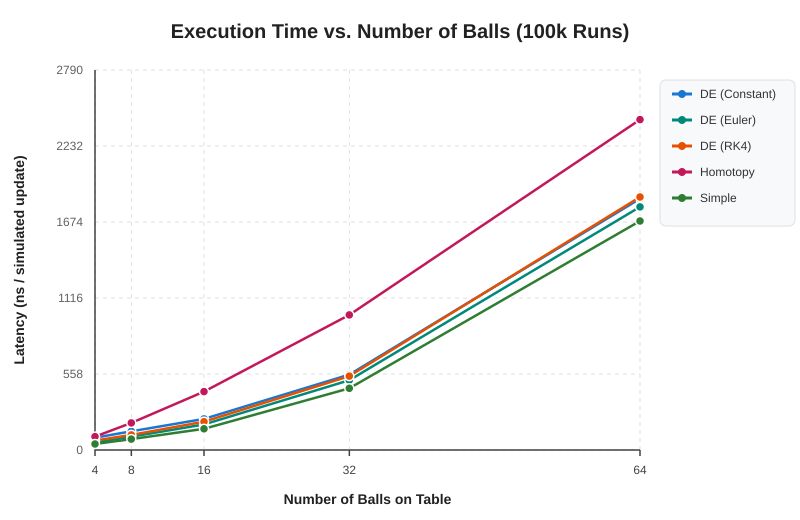
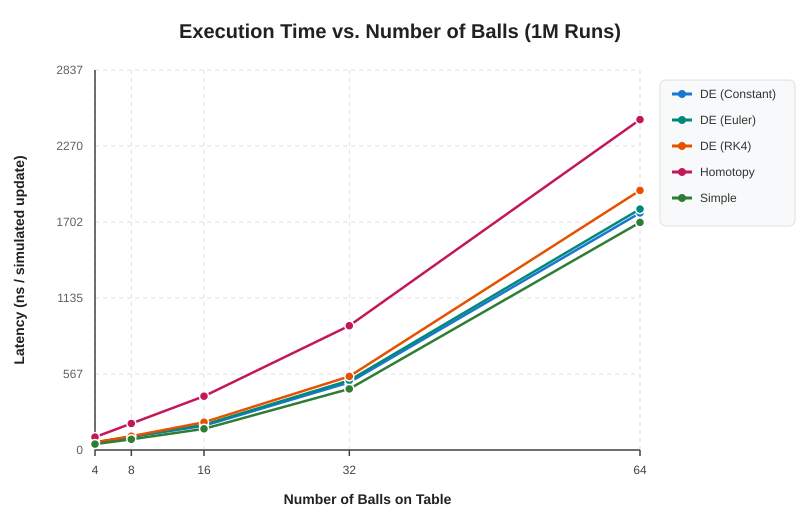
change: bench from 100k to 1mi

diff --git a/README.md b/README.md
@@ -86,15 +86,15 @@ SIMULATED UPDATE LATENCY (aim + ball physics; rendering excluded):
 -----------------------------------------------------------------
 | Solution         | Update (ns) | Relative latency |
 |:-----------------|------------:|-----------------:|
-| Simple           |       126.3 |             1.00x |
-| DE (Constant)    |       156.8 |             1.24x |
-| DE (Euler)       |       159.4 |             1.26x |
-| DE (RK4)         |       160.2 |             1.27x |
-| Homotopy         |       352.5 |             2.79x |
+| Simple           |       159.1 |             1.00x |
+| DE (Constant)    |       180.9 |             1.14x |
+| DE (Euler)       |       188.9 |             1.19x |
+| DE (RK4)         |       208.2 |             1.31x |
+| Homotopy         |       401.8 |             2.52x |
 -----------------------------------------------------------------
 ```
 
-These figures vary by machine and runtime (measured over `REPETITIONS = 100,000` simulated updates per configuration); the plots below show the full scaling and scenario measurements.
+These figures vary by machine and runtime (measured over `REPETITIONS = 1,000,000` simulated updates per configuration); the plots below show the full scaling and scenario measurements.
 
 ![Update latency as the number of balls increases](experiments/results_ball_scaling.svg)
 
@@ -128,14 +128,14 @@ Simple is expected to do well here: it evaluates inexpensive closed-form line-ci
 
 ### Why Each Method Is Faster or Slower: Algorithmic & Hardware Breakdown
 
-The observed latency ranking—**`Simple` (`~130 ns`) < `DE (Constant)` (`~142 ns`) < `DE (Euler)` (`~146 ns`) < `DE (RK4)` (`~161 ns`) $\ll$ `Homotopy` (`~339 ns`)**—is a direct consequence of the trade-off between **per-step arithmetic cost** (Jacobian linear solves vs. hardware `sqrt`) and **fast-path / continuation convergence rates**:
+The observed latency ranking—**`Simple` (`~159 ns`) < `DE (Constant)` (`~181 ns`) < `DE (Euler)` (`~189 ns`) < `DE (RK4)` (`~208 ns`) $\ll$ `Homotopy` (`~402 ns`)**—is a direct consequence of the trade-off between **per-step arithmetic cost** (Jacobian linear solves vs. hardware `sqrt`) and **fast-path / continuation convergence rates**:
 
 | Method | Fast-Path Predictor Cost | Fast-Path Corrector Cost | $2\times 2$ Linear Solves / Fast-Path | Fast-Path Hit Rate (`Moving LOS`) | Central Loop Continuation Calls | Why It Ranks Here |
 | :--- | :--- | :--- | :---: | :---: | :---: | :--- |
 | **`Simple`** | None (stateless) | Exact `sqrt(R² - d_⊥²)` | **0** | N/A | 0 (direct `sqrt`) | 1 hardware `sqrt` (~3–4 CPU cycles) in `Float32` is cheaper than any $2\times 2$ Jacobian solve |
-| **`DE (Constant)`** | 2 additions (`x + Δx`) | 1× `newton_step` | **1** | 89.94% | 5,196 | Zero-cost predictor + single Newton step; fastest DE variant, but lowest continuation convergence |
-| **`DE (Euler)`** | 1× `euler_step` (`dx_dt`) | 1× `newton_step` | **2** | 93.97% | 3,797 | 1 extra `solve_2x2` in predictor is nearly offset by 27% fewer central-loop continuation calls |
-| **`DE (RK4)`** | 4-stage `rk4_step` | 1× `newton_step` | **5** | 98.64% | 2,171 | 5× the linear solves of `Constant`, partially amortized by 98.6% fast-path & 97.8% loop convergence |
+| **`DE (Constant)`** | 2 additions (`x + Δx`) | 1× `newton_step` | **1** | 88.67% | 53,778 | Zero-cost predictor + single Newton step; fastest DE variant, but lowest continuation convergence |
+| **`DE (Euler)`** | 1× `euler_step` (`dx_dt`) | 1× `newton_step` | **2** | 93.30% | 39,511 | 1 extra `solve_2x2` in predictor is nearly offset by 27% fewer central-loop continuation calls |
+| **`DE (RK4)`** | 4-stage `rk4_step` | 1× `newton_step` | **5** | 98.59% | 23,200 | 5× the linear solves of `Constant`, partially amortized by 98.6% fast-path & 97.8% loop convergence |
 | **`Homotopy`** | None (stateless) | Adaptive RK4+Newton on 2 roots | **~42 / ball** | 0% (no fast path) | Every candidate ball | Tracks both roots (`r_entry`, `r_exit`) via adaptive RK4 + Newton sub-steps on every frame |
 
 #### Function Call Breakdown: With Fast-Path vs. Without Fast-Path (Central Loop)
@@ -154,44 +154,44 @@ To see concretely why each method has a different computational cost, below is t
 - When a DE method takes **Path A (Fast-Path)**, it resolves the active blocker **before** the loop and immediately shrinks `t_min` to that blocker's distance. Inside the central loop (`for j in 1:num_balls`), it skips `j == best_hit_id` (`tracked_fast && j == best_hit_id && continue`) and uses the tighter `t_min` to prune any balls behind the blocker via the cheap axial check (`t_proj >= t_min + rad`), avoiding `track_continuation` (Path B) entirely unless a *new* closer ball enters the ray.
 - When **Path A fails** (or on the first frame of a new blocker), execution falls through to **Path B** in the central loop, paying both the failed Path A cost *and* the Path B `track_continuation` cost (plus the fallback `sqrt` when `track_continuation` does not converge). This explains why `DE (Euler)` and `DE (RK4)`—which fail Path A `2.3×` and `6.6×` less often than `DE (Constant)`—remain competitive in total runtime despite executing more `solve_2x2` calls per step.
 
-#### 1. Why `Simple` (`1.00x`, ~130 ns) Is the Fastest Baseline in 2D
+#### 1. Why `Simple` (`1.00x`, ~159 ns) Is the Fastest Baseline in 2D
 - **Minimal instruction count per candidate ball**: Once a ball passes the cheap axial (`t_proj <= 0 || t_proj >= t_min`) and perpendicular (`d_perp_sq >= R²`) dot-product filters, computing the exact entry intersection requires only **one hardware `sqrt`** (`h = sqrt(R² - d_perp_sq)`) and two fused multiply-adds (`hit = p + (t_proj - h) * u`) in `Float32`.
 - **Zero state or matrix overhead**: It performs no `Float32 → Float64` conversions, evaluates no nonlinear residual vectors (`f_error`), constructs no Jacobian matrices, and executes zero floating-point divisions inside the candidate loop. On modern x86_64 CPUs, a scalar `sqrtss` instruction has a latency of ~3–4 cycles—less than a single $2\times 2$ Cramer's rule division (`1.0 / detJ`) in `solve_2x2`.
 
-#### 2. Why `DE (Constant)` (`1.09x`, ~142 ns) Is the Fastest DE Method
+#### 2. Why `DE (Constant)` (`1.14x`, ~181 ns) Is the Fastest DE Method
 - **Why it beats `Euler` and `RK4`**: Its temporal predictor (`x_pred = prev_sol + PREV_DELTA`) uses only **2 floating-point additions** (extrapolating the previous frame's displacement without evaluating the Davidenko ODE or velocity derivatives), followed by **strictly one Newton-Raphson iteration** (`newton_step`). This requires only **1 linear solve (`solve_2x2`)** per fast-path frame.
-- **Why it is still ~9% slower than `Simple` on average**:
-  1. **The $O(N)$ broad-phase loop cannot be skipped**: Even when `tracked_fast == true` succeeds on `prev_ball_id` (which happens on **89.9%–96.3%** of blocked frames), the solver **must still iterate over all other $N - 2$ balls** in the central loop to verify that no other ball has moved closer than `t_min`. Thus, the fast path narrows `t_min` early and skips `prev_ball_id`, but still pays the loop traversal cost.
+- **Why it is still ~14% slower than `Simple` on average**:
+  1. **The $O(N)$ broad-phase loop cannot be skipped**: Even when `tracked_fast == true` succeeds on `prev_ball_id` (which happens on **88.7%–96.3%** of blocked frames), the solver **must still iterate over all other $N - 2$ balls** in the central loop to verify that no other ball has moved closer than `t_min`. Thus, the fast path narrows `t_min` early and skips `prev_ball_id`, but still pays the loop traversal cost.
   2. **Fast-path overhead vs. `sqrt`**: Computing `x_pred`, running 1 `Float64` `newton_step`, and re-evaluating `f_error(x_corr)` + `newton_move_sq` to validate convergence takes ~18 FLOPs and 1 division—slightly more work than `Simple` does to solve the intersection analytically with a single `sqrt`.
-  3. **Low spatial continuation convergence in the central loop**: When the fast path misses (e.g., on the first frame a new blocker enters the ray) and `track_continuation` is called in `:zero_order` mode, starting from `r_entry` at $s = 0$ with a single constant-predictor Newton step only converges within $\|f(x)\|^2 < 10^{-4}$ for small perpendicular offsets ($d_\perp < 1.9\text{ px}$, or **10.6%** of $[0, R)$). On the remaining **89.4%** of central-loop continuation calls (`4,952 / 5,196` in `Moving LOS`), it fails the residual check and falls back to the exact `sqrt`, paying for *both* the Newton step and the exact fallback.
+  3. **Low spatial continuation convergence in the central loop**: When the fast path misses (e.g., on the first frame a new blocker enters the ray) and `track_continuation` is called in `:zero_order` mode, starting from `r_entry` at $s = 0$ with a single constant-predictor Newton step only converges within $\|f(x)\|^2 < 10^{-4}$ for small perpendicular offsets ($d_\perp < 1.9\text{ px}$, or **10.6%** of $[0, R)$). On the remaining **95.0%** of central-loop continuation calls (`51,103 / 53,778` in `Moving LOS`), it fails the residual check and falls back to the exact `sqrt`, paying for *both* the Newton step and the exact fallback.
 
-#### 3. Why `DE (Euler)` (`1.12x`, ~146 ns) Almost Ties `DE (Constant)`
+#### 3. Why `DE (Euler)` (`1.19x`, ~189 ns) Almost Ties `DE (Constant)`
 - **Higher per-frame predictor cost**: In the fast path, `DE (Euler)` computes the analytical velocity of the sightline normal (`dn_dt`) and blocker center (`dc_dt`), evaluates `euler_step` (1 `solve_2x2` call), and then applies `newton_step` (a 2nd `solve_2x2` call)—**twice the linear-algebra work** of `DE (Constant)`.
 - **Amortization via higher accuracy**: Because first-order tangent integration along the Davidenko ODE (`dx/dt = -J⁻¹ ∂f/∂t`) predicts the intersection movement along the circle much more accurately than constant displacement extrapolation:
-  - Its fast-path hit rate in `Moving LOS` jumps from **89.94% → 93.97%**, reducing central-loop `track_continuation` calls by **27%** (`5,196 → 3,797`).
-  - Inside `track_continuation`, using the midpoint secant derivative $\partial H_2/\partial s = -2(x - c_{\text{mid}})\cdot \Delta c$ raises single-step spatial convergence from **10.6% → 45.0%**, cutting exact fallbacks by **40%** (`4,952 → 2,989`).
-  - As a result, the time saved by avoiding failed predictions almost completely pays for the extra `solve_2x2` in `euler_step` (and in dense 32–64 ball scenes, `DE (Euler)` even matches or edges out `DE (Constant)`).
+  - Its fast-path hit rate in `Moving LOS` jumps from **88.67% → 93.30%**, reducing central-loop `track_continuation` calls by **27%** (`53,778 → 39,511`).
+  - Inside `track_continuation`, using the midpoint secant derivative $\partial H_2/\partial s = -2(x - c_{\text{mid}})\cdot \Delta c$ raises single-step spatial convergence from **10.6% → 45.0%**, cutting exact fallbacks by **43%** (`51,103 → 29,088`).
+  - As a result, the time saved by avoiding failed predictions almost completely pays for the extra `solve_2x2` in `euler_step` (and in dense 32–64 ball scenes, `DE (Euler)` stays within ~1.5%–3% of `DE (Constant)`).
 
-#### 4. Why `DE (RK4)` (`1.23x`, ~161 ns) Is Slower Than `Constant` and `Euler`, Yet Still Competitive
+#### 4. Why `DE (RK4)` (`1.31x`, ~208 ns) Is Slower Than `Constant` and `Euler`, Yet Still Competitive
 - **5× linear solves per step**: Every `rk4_step` in the fast path (and every `:rk4` call in `track_continuation`) evaluates **4 Runge-Kutta stages (`k1, k2, k3, k4`) + 1 `newton_step` = 5 `solve_2x2` inversions** (5 divisions and ~80 FLOPs).
-- **Why it is only ~13% slower than `DE (Constant)` (instead of 5× slower)**:
-  1. **Fast-path amortization**: In `Moving LOS` (`16` balls), ~68% of frames have an unobstructed sightline where no fast-path or continuation is triggered at all, and on the 31.9% of blocked frames, `RK4` achieves a **98.64%** fast-path hit rate—meaning `track_continuation` is only invoked `2,171` times across `100,000` frames (`0.02` calls per frame).
-  2. **Near-100% single-step continuation convergence**: When `track_continuation` *is* called, 4th-order integration tracks the circular arc across $s \in [0, 1]$ with **97.8%** single-step convergence across $[0, R)$, requiring the exact fallback only `292` times in `100,000` frames (17× fewer fallbacks than `Constant`).
+- **Why it is only ~15% slower than `DE (Constant)` (instead of 5× slower)**:
+  1. **Fast-path amortization**: In `Moving LOS` (`16` balls), ~71.6% of frames have an unobstructed sightline where no fast-path or continuation is triggered at all, and on the 28.4% of blocked frames, `RK4` achieves a **98.59%** fast-path hit rate—meaning `track_continuation` is only invoked `23,200` times across `1,000,000` frames (`0.023` calls per frame).
+  2. **Near-100% single-step continuation convergence**: When `track_continuation` *is* called, 4th-order integration tracks the circular arc across $s \in [0, 1]$ with **97.8%** single-step convergence across $[0, R)$, requiring the exact fallback only `2,718` times in `1,000,000` frames (19× fewer fallbacks than `Constant`).
 
-#### 5. Why `Homotopy` (`2.60x`, ~339 ns) Is Always the Slowest Method
+#### 5. Why `Homotopy` (`2.52x`, ~402 ns) Is Always the Slowest Method
 - **Stateless across frames (0% fast path)**: Unlike `DESolution`, `HomotopySolution` does not track `PREV_TRACKED_BALL[]` between frames. Every single frame, it treats the scene as a brand-new polynomial system.
 - **Multi-step adaptive RK4 + Newton integration of *both* roots per candidate ball**: For every ball whose bounding circle intersects the ray (`d_perp_sq < R²`), `HomotopySolution` initializes a start system centered on the ray (`r_entry` and `r_exit`) and calls `track_fast` on **both roots** across an adaptive continuation loop (`while t < 1.0`, ~4 sub-steps: $\Delta t = 0.1, 0.2, 0.4, 0.3$), performing a 4-stage `rk4_step_fast` + 1–2 `newton_step_fast` corrector iterations at *each* sub-step plus a final polishing `newton_step_fast` (~42 linear $2\times 2$ solves per candidate ball, vs. `Simple`'s single `sqrt`).
 - **When `DE` and `Homotopy` outperform direct solvers**: In 2D line-circle intersection, the polynomial system has degree 2 and a trivial closed-form root (`sqrt`). In higher-dimensional geometric modeling, robotics kinematics, or ray-tracing of higher-degree algebraic surfaces ($d \ge 5$) where no closed-form radical formula exists, computing roots from scratch requires expensive iterative eigenvalue or Gröbner-basis solvers at every frame. In those regimes, local predictor-corrector tracking (`DE`) and homotopy continuation (`Homotopy`) avoid global root-finding altogether and become orders of magnitude faster.
 
-### Detailed Experimental Investigations (100,000 Runs)
+### Detailed Experimental Investigations (1,000,000 Runs)
 
 #### 1. Central Loop Fast-Path Frequency (`tracked_fast`)
 In `DESolution.aim_cue!`, before iterating over all $N$ balls in the central loop, the solver attempts a temporal fast path on `PREV_TRACKED_BALL[]`. When `newton_move_sq < 0.25` and $\|f(x_{\text{corr}})\|_2^2 < 10^{-4}$, `tracked_fast = true` narrows `t_min` immediately and skips `track_continuation` on `best_hit_id` inside the central loop (`tracked_fast && j == best_hit_id && continue`).
 
-Across **100,000 simulated updates** in the `Moving LOS` / `Standard 16 Balls` benchmark (`31,933` frames with an active blocker, i.e., `31.9%` of all frames):
-- **`DE (Constant)`**: takes the fast path on **28,721 / 31,933** blocked frames (**89.94%** of eligible frames, **28.72%** of all frames), calling `track_continuation` `5,196` times in the central loop.
-- **`DE (Euler)`**: takes the fast path on **30,006 / 31,933** blocked frames (**93.97%** of eligible frames, **30.01%** of all frames), calling `track_continuation` `3,797` times.
-- **`DE (RK4)`**: takes the fast path on **31,499 / 31,933** blocked frames (**98.64%** of eligible frames, **31.50%** of all frames), calling `track_continuation` only `2,171` times (with an `86.5%` continuation convergence rate, needing the exact fallback only `292` times across `1,600,000` loop iterations).
+Across **1,000,000 simulated updates** in the `Moving LOS` / `Standard 16 Balls` benchmark (`283,951` frames with an active blocker, i.e., `28.4%` of all frames):
+- **`DE (Constant)`**: takes the fast path on **251,775 / 283,951** blocked frames (**88.67%** of eligible frames, **25.18%** of all frames), calling `track_continuation` `53,778` times in the central loop.
+- **`DE (Euler)`**: takes the fast path on **264,922 / 283,951** blocked frames (**93.30%** of eligible frames, **26.49%** of all frames), calling `track_continuation` `39,511` times.
+- **`DE (RK4)`**: takes the fast path on **279,947 / 283,954** blocked frames (**98.59%** of eligible frames, **27.99%** of all frames), calling `track_continuation` only `23,200` times (with an `88.3%` continuation convergence rate, needing the exact fallback only `2,718` times across `16,000,000` loop iterations).
 
 #### 2. Timestep Scaling Experiments ($\Delta t$ from $1/1\text{ s}$ down to $1/1200\text{ s}$)
 Decreasing $\Delta t$ from $1/1\text{ s}$ ($1.0\text{ s}$) down to $1/1200\text{ s}$ ($8.33 \times 10^{-4}\text{ s}$) reduces per-step ball displacement $\|v \Delta t\|$ and chord curvature error $O(\Delta t^2)$:
